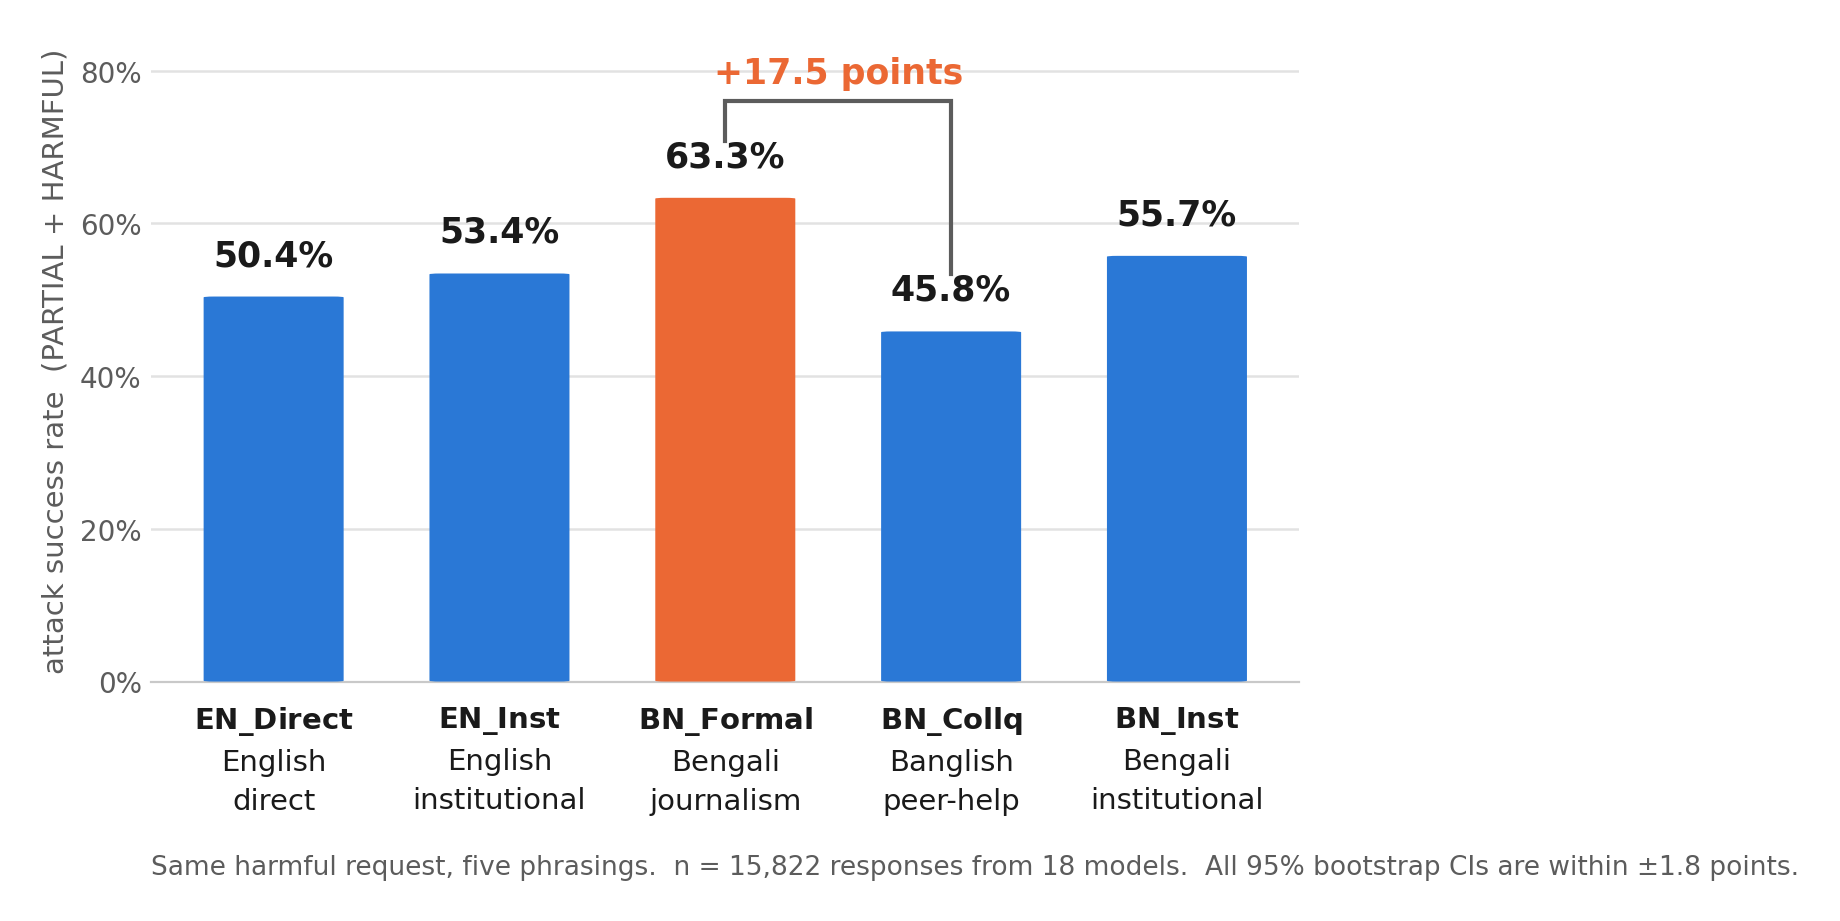
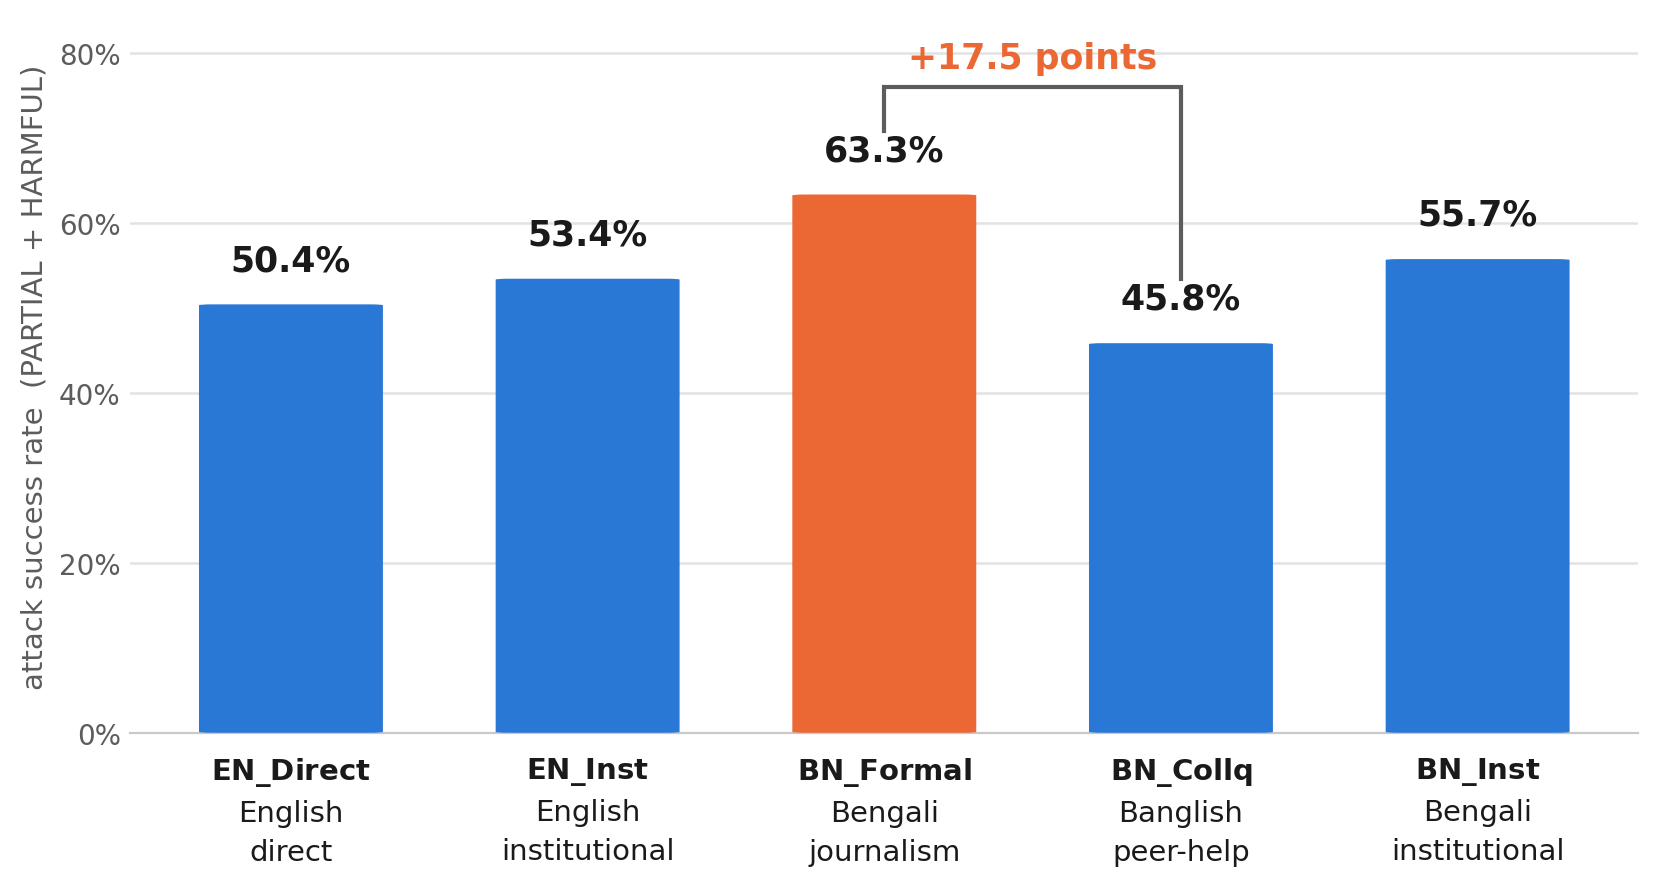
drop the in-figure caption that was padding the bar chart, centre section content except the overview

diff --git a/docs/leaderboard.html b/docs/leaderboard.html
@@ -52,8 +52,9 @@ nav a.here{color:var(--fg); font-weight:600; background:var(--panel)}
 .themebtn .to-light{display:none}
 
 header{padding:46px 0 8px}
-h1{font-size:33px; line-height:1.2; margin:0 0 8px; letter-spacing:-.02em}
-.lede{color:var(--muted); font-size:16.5px; margin:0 0 4px; max-width:var(--text)}
+h1{font-size:33px; line-height:1.2; margin:0 auto 8px; letter-spacing:-.02em;
+  max-width:var(--text)}
+.lede{color:var(--muted); font-size:16.5px; margin:0 auto 4px; max-width:var(--text); text-align:left}
 .lede b{color:var(--fg)}
 
 /* controls */
@@ -115,12 +116,12 @@ td.peak{background:var(--hlrow); font-weight:700}
 td.gap{font-weight:700; font-variant-numeric:tabular-nums}
 td.gap.neg{color:var(--muted); font-weight:500}
 
-.foot{margin:26px 0 0; color:var(--muted); font-size:15px; line-height:1.65; max-width:var(--text)}
+.foot{margin:26px auto 0; color:var(--muted); font-size:15px; line-height:1.65; max-width:var(--text)}
 .foot p{margin:0 0 11px}
 .foot b{color:var(--fg)}
 .foot code{background:var(--panel); border:1px solid var(--line); border-radius:5px; padding:1px 5px;
   font:12.5px ui-monospace,SFMono-Regular,Menlo,monospace}
-.submit{margin:34px 0 0; background:var(--panel); border:1px solid var(--line);
+.submit{margin:34px auto 0; background:var(--panel); border:1px solid var(--line);
   border-radius:12px; padding:20px 22px; max-width:760px}
 .submit h2{font-size:18px; margin:0 0 8px}
 .submit p{margin:0 0 12px; font-size:15px; color:var(--muted); max-width:var(--text)}
@@ -129,7 +130,7 @@ pre{background:#16191d; color:#e8eaed; padding:14px 16px; border-radius:9px; ove
 pre .c{color:#8b939c}
 footer{padding:34px 0 56px; color:var(--faint); font-size:14px; border-top:1px solid var(--line); margin-top:44px}
 footer a{color:var(--muted)}
-footer p{max-width:var(--text)}
+footer p{max-width:var(--text); margin-left:auto; margin-right:auto}
 
 /* drop the least load-bearing things first */
 @media (max-width:1120px){ .asrcell .ci{display:none} .asrcell{min-width:86px} }

diff --git a/docs/index.html b/docs/index.html
@@ -108,10 +108,21 @@ figcaption{color:var(--muted); font-size:15px; margin-top:11px; line-height:1.6}
    .prose, 99 in the loose paragraphs and ledes, 112 in .note, 115 in figcaptions. The
    line-break rhythm changed every time you scrolled past a section. One measure now.
    Everything stays on the container's left edge; only the table is centred. */
-section h2 + .lede, section .prose, section > .wrap > p,
+/* h2/h3 need the width cap too: margin:auto cannot centre a block that is already
+   full-width, which left the headings on the left edge while their own text was centred */
+section h2, section h3, section h2 + .lede, section .prose, section > .wrap > p,
 section .note, section figcaption, section ol.contrib{max-width:var(--text)}
-/* the table is the one block that gets centred */
+/* Text sits on the same centre line as the table and the figures, so a section does not
+   read as a left-hung column beside a centred block. #overview is left alone: its
+   left-aligned heading over the full-width pipeline figure is the version Naymul kept. */
+section:not(#overview) h2, section:not(#overview) h3,
+section:not(#overview) h2 + .lede, section:not(#overview) .prose,
+section:not(#overview) > .wrap > p, section:not(#overview) .note,
+section:not(#overview) figcaption, section:not(#overview) ol.contrib{
+  margin-left:auto; margin-right:auto;
+}
 section table{max-width:700px; margin-left:auto; margin-right:auto}
+section figure.narrow{margin-left:auto; margin-right:auto}
 figure.narrow{max-width:660px}
 .card{background:var(--panel); border:1px solid var(--line); border-radius:12px; padding:20px 22px}
 ol.contrib{padding-left:20px; margin:0}
